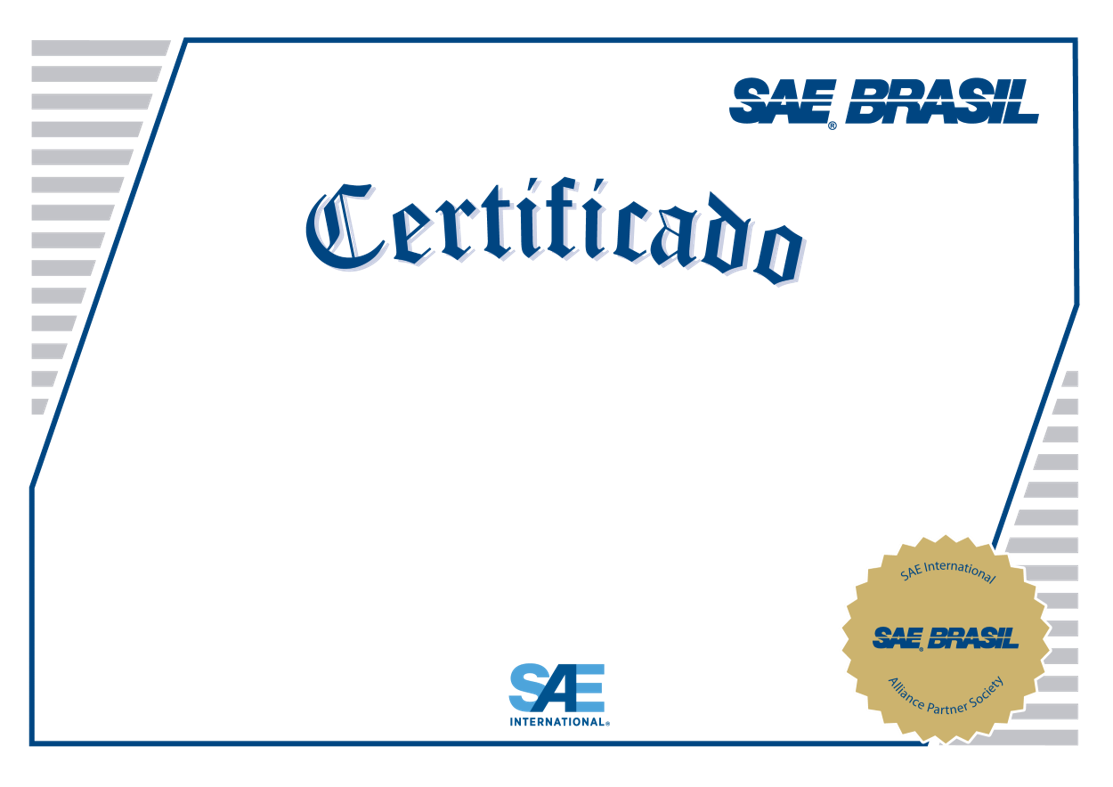
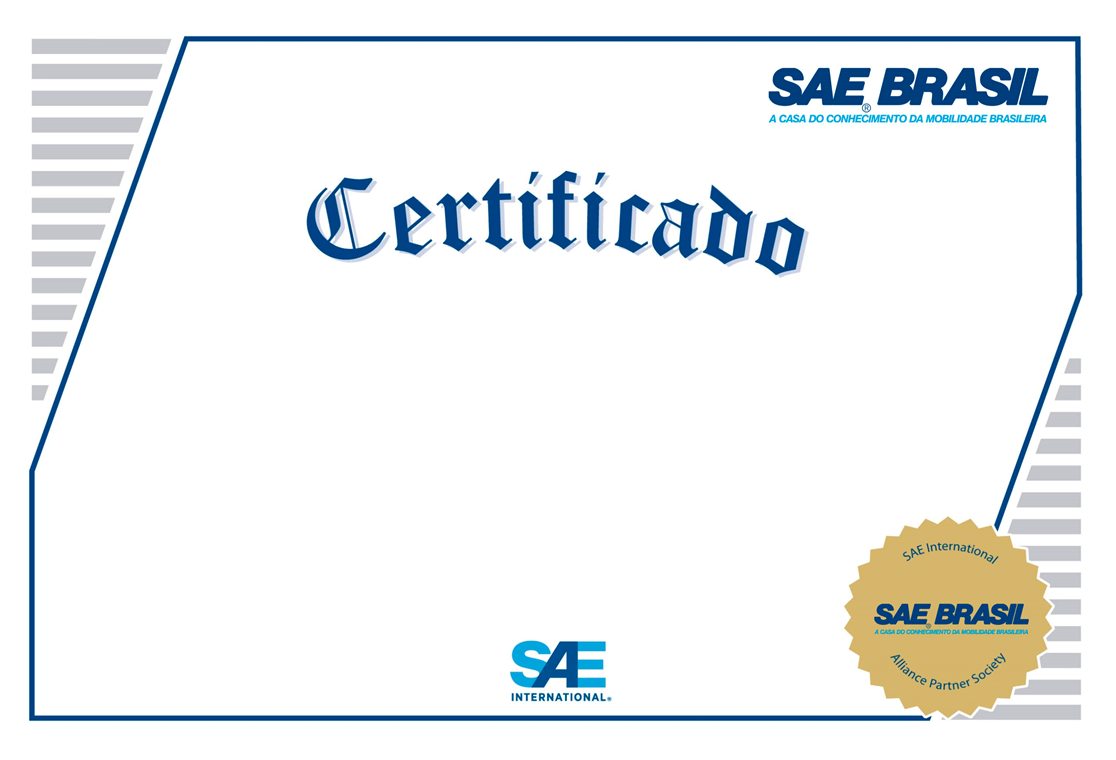
Update certificate background

diff --git a/certificado/certificado.php b/certificado/certificado.php
@@ -99,9 +99,9 @@ $html = "<html>
 			@page { margin: 0px;}
 		</style>
 	</head>	
-	<body style='font-family: Arial; margin: 0; padding: 0; font-size: 20px;'>
+	<body style='font-family: Arial, sans-serif; margin: 0; padding: 0; font-size: 18px;'>
 		<div style = 'text-align: center; background-image: url(\"img/certificado.png\"); width:100%; height:97%'>
-			<br><br><br><br><br><br><br><br><br><br><br><br>
+			<br><br><br><br><br><br><br><br><br><br><br><br><br>
 			<div style = 'font-size:24px'>A <b>SAE BRASIL</b> certifica que</div>
 			<br>
 			<div style = 'font-size:36px; text-transform: uppercase;margin: 0 75px'><b>".$nome."</b></div>
